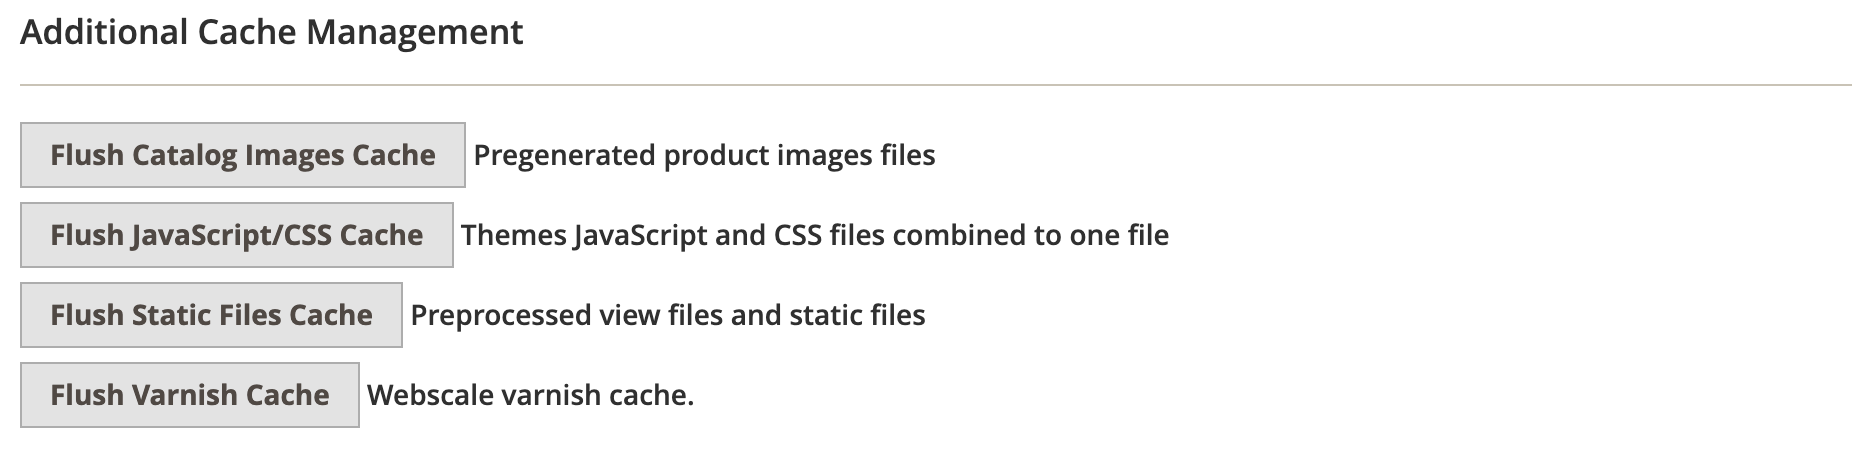
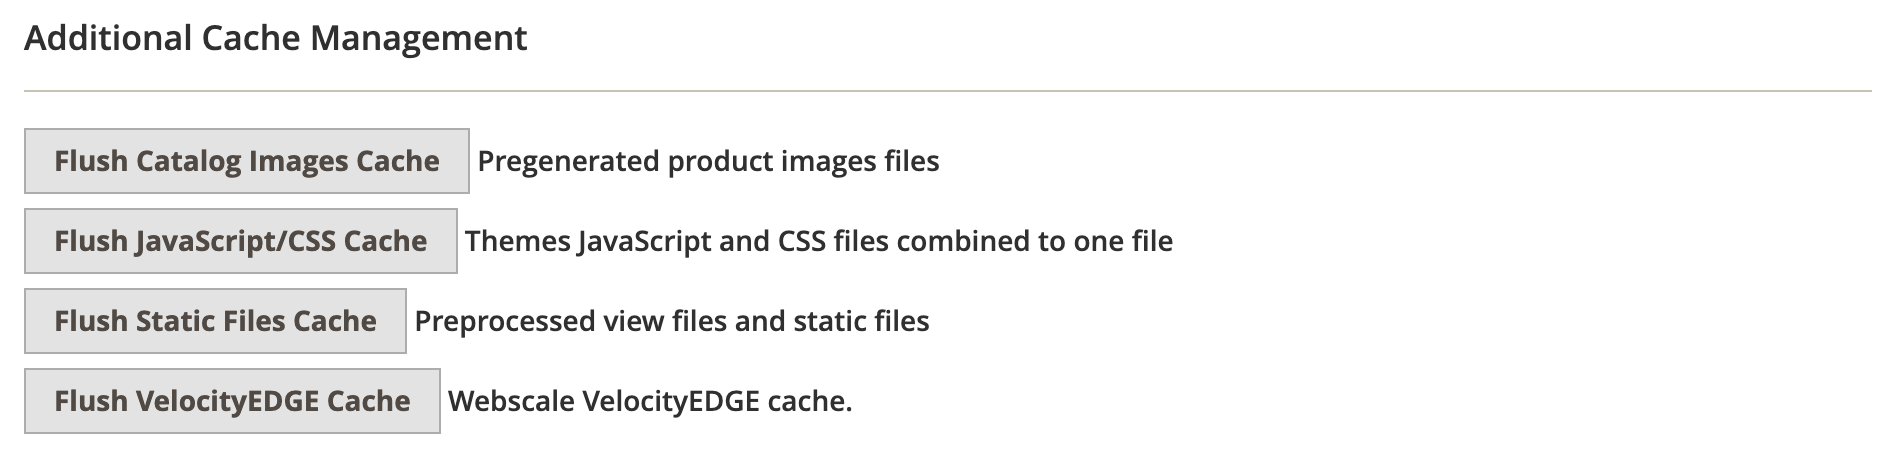
PHP 8.2 compatibility, minor branding changes

diff --git a/Helper/Config.php b/Helper/Config.php
@@ -120,9 +120,7 @@ class Config extends AbstractHelper
      */
     public function getCacheScheduleEvery(): array
     {
-        $every = $this->scopeConfig->getValue(self::XML_PATH_CACHE_SCHEDULE_EVERY);
-
-        return is_array($every) ? $every : explode(',', $every);
+        return $this->getArrayValue(self::XML_PATH_CACHE_SCHEDULE_EVERY);
     }
 
     /**
@@ -142,9 +140,7 @@ class Config extends AbstractHelper
      */
     public function getEventsFlushAll(): array
     {
-        $events = $this->scopeConfig->getValue(self::XML_PATH_EVENTS_ALL);
-
-        return is_array($events) ? $events : explode(',', $events);
+        return $this->getArrayValue(self::XML_PATH_EVENTS_ALL);
     }
 
     /**
@@ -154,9 +150,7 @@ class Config extends AbstractHelper
      */
     public function getEventsPartialInvalidate(): array
     {
-        $events = $this->scopeConfig->getValue(self::XML_PATH_EVENTS_PARTIAL);
-
-        return is_array($events) ? $events : explode(',', $events);
+        return $this->getArrayValue(self::XML_PATH_EVENTS_PARTIAL);
     }
 
     /**
@@ -249,6 +243,22 @@ class Config extends AbstractHelper
         }
 
         return $result;
+    }
+
+    /**
+     * Retrieve multiselect values from store config
+     *
+     * @param string $path
+     * @return array
+     */
+    public function getArrayValue(string $path): array
+    {
+        $value = $this->scopeConfig->getValue($path);
+        if (!empty($value)) {
+            return is_array($value) ? $value : explode(',', $value);
+        }
+
+        return [];
     }
 
     /**

diff --git a/Block/System/Config/Settings.php b/Block/System/Config/Settings.php
@@ -36,7 +36,7 @@ class Settings extends \Webscale\Varnish\Block\System\Config\SettingsAbstract
             $url = $this->urlBuilder->getUrl('adminhtml/system_config/edit/section/system');
             return $this->getMessageWrapper(
                 __('Magento is configured to use the built-in Full Page Cache.' .
-                    ' To use Webscale varnish caching please change "Caching Application" to "Varnish Cache"' .
+                    ' To use VelocityEDGE please change "Caching Application" to "Varnish Cache"' .
                     ' under the "Full Page Cache" tab in <a href="%1">System Configuration</a>', $url),
                 'error'
             );

diff --git a/Controller/Adminhtml/Purge/All.php b/Controller/Adminhtml/Purge/All.php
@@ -27,7 +27,7 @@ class All extends AbstractController implements HttpPostActionInterface
                     'event' => 'adminhtml_manual_flush_all'
                 ])) {
                     $this->messageManager->addSuccessMessage(
-                        __('Varnish cache flushed successfully.')
+                        __('VelocityEDGE cache flushed successfully.')
                     );
                 } else {
                     $this->messageManager->addErrorMessage(

diff --git a/README.md b/README.md
@@ -1,5 +1,5 @@
-# Webscale_Varnish module
-Allows to setup and configure Webscale varnish cache implementation.
+# Webscale VelocityEDGE
+Allows to setup and configure VelocityEDGE magento extension.
 
 ## Installation
 To install extension start with the following in magento root directory to add repository:
@@ -35,16 +35,16 @@ Once completed log in to the Magento admin panel and proceed to configuring the 
 
 To enter the credentials open a browser and log in to the Magento admin. Next, navigate to:
 ```
-Stores > Configuration > Webscale > Varnish
+Stores > Configuration > Webscale > VelocityEDGE
 ```
 
 Enable the module by switching `Enabled` to `Yes` under `General Configuration` section and enter `API token` and `Application Id`:
 
-![Webscale Varnish Configuration](Documentation/enable-extension2.png "Webscale Varnish Configuration Page")
+![Webscale VelocityEDGE Configuration](Documentation/enable-extension2.png "Webscale VelocityEDGE Configuration Page")
 
 Save the configuration. After setting up API token and Application Id navigate to `Stores > Configuration > Advanced > System`, open `Full Page Cache` section and select `Varnish` in `Caching Application` field:
 
-![Webscale Varnish Configuration](Documentation/caching-application.png "Caching Application")
+![Webscale VelocityEDGE Configuration](Documentation/caching-application.png "Caching Application")
 
 ## Optional
 
@@ -52,27 +52,27 @@ Save the configuration. After setting up API token and Application Id navigate t
 
 You can also select `Enable Debug` under `Developer` section - this will result to more detailed server logs:
 
-![Webscale Varnish Configuration](Documentation/debug-logs.png "Debug Logging")
+![Webscale VelocityEDGE Configuration](Documentation/debug-logs.png "Debug Logging")
 
 Log file can be found at `MAGENTO_ROOT/var/log/webscale.log`.
 
 ### Cache Events
 
-In this section all the magento observing events listed that is triggering varnish cache flush. By default - all selected, but it can be configured by selecting/deselecting items from list: 
+In this section all the magento observing events listed that is triggering VelocityEDGE cache flush. By default - all selected, but it can be configured by selecting/deselecting items from list: 
 
-![Webscale Varnish Configuration](Documentation/cache-events.png "Cache Flush by Events")
+![Webscale VelocityEDGE Configuration](Documentation/cache-events.png "Cache Flush by Events")
 
 ### Scheduled Full Cache Flush
 
-> Enabling this feature will disable partial cache invalidation. Full varnish cache flush will be executed instead, according to the cron expression configured.
+> Enabling this feature will disable partial cache invalidation. Full VelocityEDGE cache flush will be executed instead, according to the cron expression configured.
 
-![Webscale Varnish Configuration](Documentation/scheduled-full-cache-flush.png "Scheduled Full Cache Flush")
+![Webscale VelocityEDGE Configuration](Documentation/scheduled-full-cache-flush.png "Scheduled Full Cache Flush")
 
 Choose one of the three frequency modes: hourly, daily or custom. Cron expression helper will display configured cron expression to validate.  
 
-## Managing Varnish Cache
+## Managing VelocityEDGE Cache
 
-Webscale varnish cache will be flushed by default with all Magento native cache events, partial by tags or full cache flush.
-To flush specifically Webscale varnish cache navigate to `System > Tools > Cache Management` and click `Flush Varnish Cache` button under `Additional Cache Management` section:
+VelocityEDGE cache will be flushed by default with all Magento native cache events, partial by tags or full cache flush.
+To flush specifically only VelocityEDGE cache - navigate to `System > Tools > Cache Management` and click `Flush VelocityEDGE Cache` button under `Additional Cache Management` section:
 
-![Webscale Varnish Configuration](Documentation/flush-cache.png "Flush Cache")
+![Webscale VelocityEDGE Configuration](Documentation/flush-cache.png "Flush Cache")
